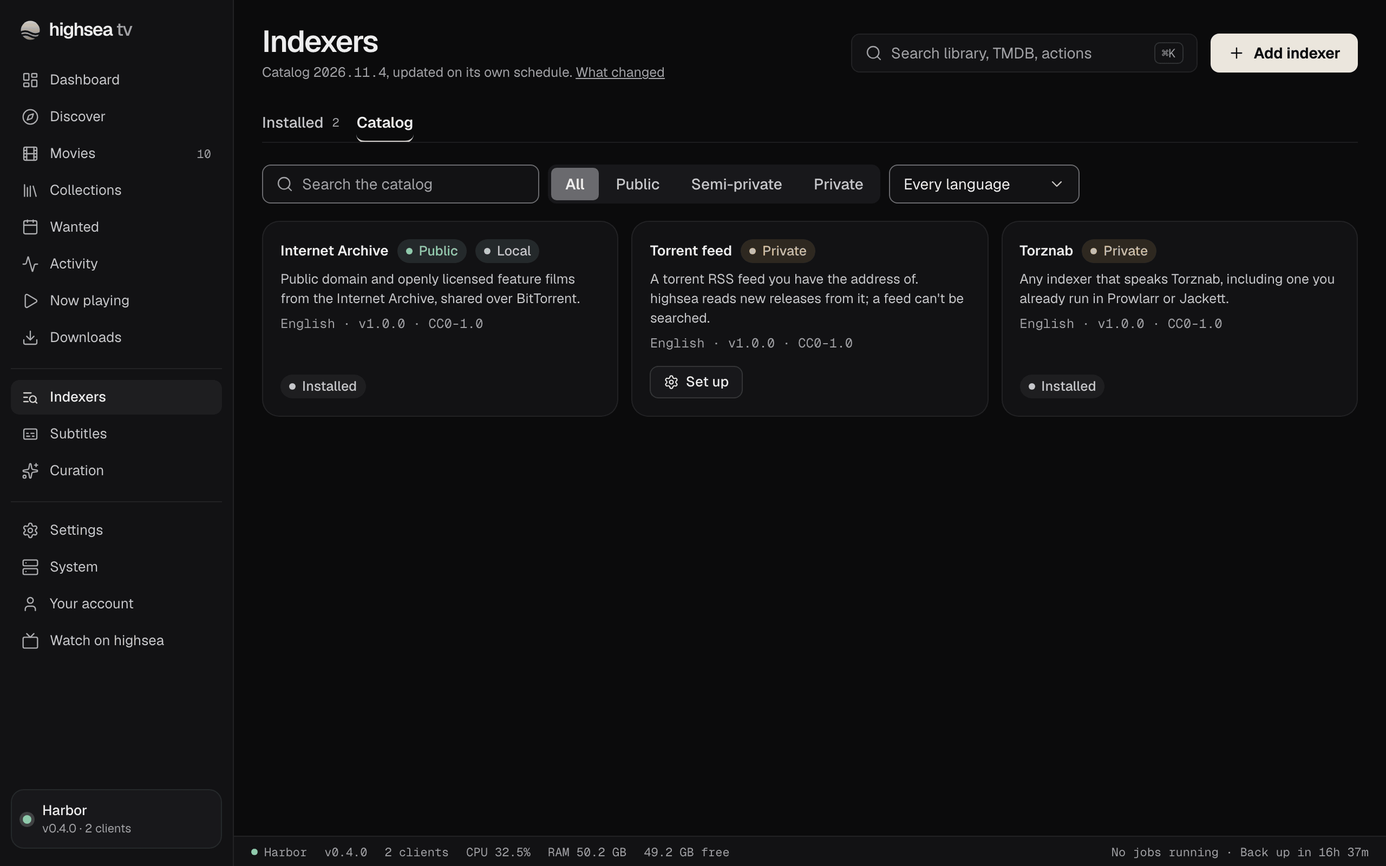
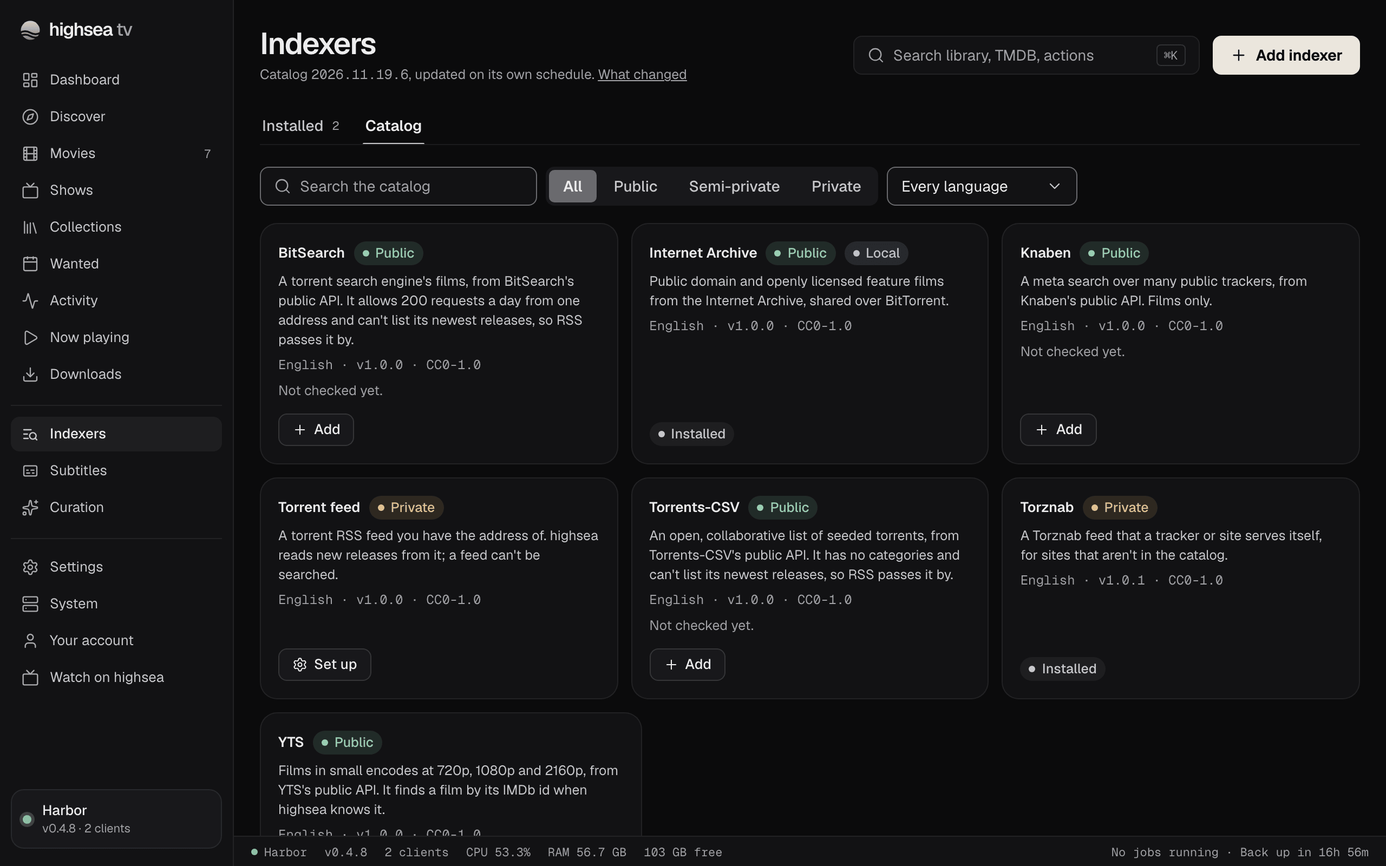
Record the approved upkeep lines, and explain them in the guide
- The upkeep plan records the owner's approval of A9's prototype and the five answers, with
  HT-99 in Progress; the indexers spec and docs/status.md say what's built
- ADR 0035 gains a dated section: a broken definition keeps its backoff and gains the
  catalog's note, a retired one keeps its row, and Report a problem
- The guide Indexers › Health and backoff says what Checked working on, Not checked yet, Beta,
  Broken and Retired mean, and when nothing is shown
- Screenshots retaken from the seeded server: the catalog, and a crop of its cards with the line

diff --git a/scripts/docs-shots/areas/indexers.ts b/scripts/docs-shots/areas/indexers.ts
@@ -36,6 +36,16 @@ export default {
     },
     { name: 'catalog', path: '/indexers/catalog' },
     {
+      // the upkeep lines (Indexers › Health and backoff): two cards from the catalog as shipped
+      name: 'catalog-checked',
+      path: '/indexers/catalog',
+      crop: (p) =>
+        p
+          .getByRole('listitem')
+          .filter({ has: p.getByRole('heading', { name: 'Knaben' }) })
+          .locator('..'),
+    },
+    {
       name: 'what-changed',
       path: '/indexers',
       act: (p) => p.getByRole('button', { name: 'What changed' }).click(),

diff --git a/docs/adr/README.md b/docs/adr/README.md
@@ -78,4 +78,4 @@ Template: copy [`template.md`](template.md).
 
 ## Which work added which ADRs
 
-0018–0022 came with checkpoint 1, 0023–0026 with checkpoint 2, 0027–0028 with checkpoint 3, 0029–0031 with checkpoint 4, 0032 with the admin-access work, 0033–0035 with checkpoint 5, 0036 (domain packages with subpath exports) at its review, 0037–0040 and 0042 with checkpoint 6a, 0041 (the migration importers) with 6b, which also added dated 6b sections to 0037, 0039 and 0042, 0043 (subtitles) with 7a, 0044 (the subtitle sync engine) with 7b, which also amended 0040, 0045 (automation) with 8a, 0046 (notifications) and 0047 (operations) with 8b, 0048 (curation) with 8c, 0049 (smart collections) with 8d, and 0050 (release and versioning) with 9b, which also added a dated section to 0034. Phase 4's 4.0a added a dated section to 0003 (Node 26 and Debian trixie), and 4.0b drafted 0051 (the playback engine), 0052 (device profiles) and 0053 (the clients' build and distribution) as Proposed. 4.1a added 0054 (watch state) and dated sections to 0003 (`/stream` served), 0039 (the scan adds what it can match surely) and 0049 (the watch rules on); 4.1b added dated sections to 0051 and 0052 and made them Accepted. 4.2a added 0055 (the clients' shared logic) and dated sections to 0003 (`/web` served), 0032 (users sent to `/web`) and 0053 (the web client as built); 4.2b added a second to 0053 (the web player). 4.3a added dated sections to 0046 (Playback started), 0051 (limits, the cache, burn-in, the downmix and Now playing) and 0052 (burned-in subtitles in the decision). 4.3b added 0056 (hardware acceleration) and dated sections to 0003 (the drivers and the render node's group), 0051 (the graphics chip) and 0052 (tone mapping in the decision). 4.3c adds 0057 (installing without configuration, with highsea's own TMDB key) and dated sections to 0003 (NVIDIA's variables and the user found from `/data`), 0020 (mDNS through the host's avahi, then the advertised address and the router's forwarding), 0050 (the TMDB key in the `release` environment, then the stores and `get.highsea.tv`) and 0056 (the handover on by default). Part D adds dated sections to 0057 (the Synology package) and 0050 (the package on each stable release). 4.4a adds 0058 (the desktop app, Accepted) and dated sections to 0009 (the audit reads crates), 0020 (discovery from the app), 0024 (single sign-on from the apps), 0050 (the desktop app on each stable release), 0052 (the webviews' profiles) and 0053 (desktop as built). 4.5a adds 0059 (the native apps, Proposed until 4.5c) and dated sections to 0009 (the audit reads pods), 0020 (discovery from the phone), 0024 (approving a TV from the phone, and single sign-on), 0050 (the phone's version), 0052 (the `ios` and `tvos` profiles), 0053 (the phone app as built) and 0055 (library, servers and cues). Design system 1.1 adds 0060 (one design system and one library, Proposed until the owner's review) and dated sections to 0008 (one library, two renderers) and 0059 (ui-native joined with ui-web). The apps' catch-up's part A adds dated sections to 0027 (the apps' playback settings), 0054 (Remove from Continue watching) and 0055 (what moved from the prototype). Part B adds dated sections to 0055 (a person's films and announcements' words), 0059 (the TV's screens on shared parts) and 0060 (the TV's own parts and Chip's end icon). Part C adds dated sections to 0055 (the phone on the shared rules) and 0060 (the phone's page parts). The one client platform's part A adds 0061 (one client platform on React Native, Proposed until the owner's review) and dated sections to 0003 (the client's Expo web export at `/web`), 0008 (React Native everywhere), 0053 (the web's build is Expo's, one project), 0055 (the prototypes' logic moved in, the mock as a transport), 0058 (the desktop app around the Expo export), 0059 (`apps/mobile` and `apps/tv` joining `apps/client`) and 0060 (one drawing per component). Part B's B1 adds dated sections to 0055 (the films' rules for every client), 0060 (the films' parts merged by form factor) and 0061 (the films' screens moved, with the prototypes handing them to the client). B2 adds dated sections to 0050 (the phone's and TV's version from `apps/client`), 0055 (downloads and the player's speeds), 0059 (`apps/mobile` and `apps/tv` removed), 0060 (what B2 added to the library) and 0061 (the rest of the films apps moved, and the two apps removed). B3 adds dated sections to 0055 (shows, music, the music player and profiles), 0060 (what B3 added to the library) and 0061 (the drafted routes, and hiding what a server doesn't serve; then the screens moved and the prototypes' client folders removed). Part C's C1 adds dated sections to 0003 (`/web` serves the client's export), 0053 (the web ships from it, and `bun run web`) and 0061 (what the move found: checked state on the web, the panel's blur, cues the browser draws). C2 adds dated sections to 0058 (the window shows the client's desktop export, and `server_info`), 0059 (highsea's shipping identifiers) and 0061 (the desktop app on the client, and `apps/web` removed). Part D's D1 adds dated sections to 0003 (Next.js hosting react-native-web on webpack, the sheet in the server's HTML), 0018 (the screens shared with their prototype), 0060 (the admin's parts in the native renderer, `svgName`) and 0061 (the admin on the library, shared with its prototype). D2 adds dated sections to 0003 (the image's size reported, not gated), 0018 (the library and the work shared), 0060 (what D2 added to the library, and what the sweeps changed) and 0061 (the library and the work moved). D3 adds dated sections to 0003 (the Next.js wiring in the library, the server without Tailwind, the build context), 0018 (every admin screen shared), 0060 (the web renderer removed, and what D3 added) and 0061 (every admin screen moved, Shows' drafted admin, and the tables at scale). The `next` branch (next-branch.md) adds 0062 (the `next` branch and CI by branch) and a dated section to 0050 (work lands on `next`). The one compose file's part A adds dated sections to 0057 (one compose file at the root, the variants written where they're needed) and 0020 (the Docker Desktop setup in the guide rather than a file). Part B adds a dated section to 0042 (highsea connects' compose lines from Settings, and the host-networking status). The one client platform's part E1 adds a dated section to 0060 (every value on the tokens, and one width rule). E3 adds dated sections to 0003 (the guides' build after E2: the faces and the code blocks' comment colour), 0008 (the guides' drawn parts in React Native), 0059 (expo-video's player view in the view controller hierarchy on tvOS, the owner's decision of 2026-11-15), 0060 (the guides' link card and figure in the library, and the design language brought to the tokens) and 0061 (part E, and the platform built); 0060 and 0061 stay Proposed until part E's sign-off, and 0053's phone and TV part and 0059 until 4.5c. HT-16 adds a dated section to 0002 (Bun 1.4.4 in CI and the image). HT-29 adds a dated section to 0062 (a pull request of internal docs alone skips `check`), HT-42 another (workers run scoped checks, CI is the full gate), and HT-40 another (the fast tier in parallel, and `next`'s results reused on the pull request into `main`), and HT-89 another (a push to `next` cancels `next`'s older runs, and apt bounded). HT-43 adds a dated section to 0050 (a pre-production release is one click from `next`). HT-50 adds a note to it (the first run's skipped builds, and one rule for whether a release may publish). HT-54 adds another (publishing waits for every build). Phase 5's A1 adds 0063 (libraries highsea only reads, with a dated section on highsea's own folder from the NAS test) and dated sections to 0039 (a film's NFO, its parts, and folders that aren't one film; then an NFO that disagrees with its folder waits), 0050 (a stable release at each part) and 0057 (the package's read-only media, and shows' and music's folders). HT-31 adds dated sections to 0057 (the shared folder picked from a list, asked again on an update, and nothing assumed inside it) and 0063 (the package's read-only mount removed). Phase 5's A2a (HT-45) adds 0066 (client error reports), ahead of 0064 and 0065, which the plan keeps for shows (B) and music (D). With it, on the owner's decision of 2026-11-17, a dated section to 0026 (two supported ways to reach highsea, and no VPN, tunnel or relay). HT-46 adds a dated section to 0051 (a quick start), and HT-48 extends it (keyframes from the file's index, and subtitles in a job of their own). HT-49 adds another to 0051 (subtitles in segments, in step with the picture, and the subtitles' job for WebM alone). HT-53 adds a dated section to 0026 (highsea notices a proxy and offers the setting, and keeps people on HTTPS behind one). Phase 5's A2b (HT-52) adds 0068 (profiles, chosen per device) and dated sections to 0023 (the profile on a session and device token), 0027 (Home per profile), 0049 (watch rules per profile), 0054 (watch state per profile) and 0061 (profiles served). HT-56 adds dated sections to 0051 (a copy's run starts at its own keyframe, without an open GOP's leading frames) and 0066 (the apps' reports always kept, the owner's decision of 2026-11-18). HT-59 adds another to 0051 (each piece keeps its keyframe's own time, and seeks in Chromium's software decoder). HT-64 adds another to 0051 (the init whole when it's sent, and every failed start reported). HT-66 adds a dated section to 0030 (artwork an admin chooses, kept beside the cache and applied when the art is mapped, and a title's logo). HT-60 adds a dated section to 0029 (an optional service, Open-Meteo's weather, asks nothing until it's set up, and only from the server). Phase 5's B starts with HT-67, which adds 0064 (shows on the server: the model, TMDB's TV metadata, the parser's numbering and `@highsea-tv/media/shows`) and a dated section to 0012 (shows, seasons and episodes join the tree). HT-75 adds a dated section to 0034 (a live check of each definition, with its date in `verified.json`). HT-76 adds a dated section to 0037 (web seeds, BEP 19, through the socket factory; announces logged; a stalled torrent shown after 30 minutes). HT-73 adds a dated section to 0064 (files matched to episodes, the existing-library import, the scan, and the Series routes' id), HT-83 another (the routes served, episodes played as films are, each profile's place, shows never renamed, and Shows as a library a user can be given). HT-94 adds 0069 (keeping the indexer catalog fresh: stages, the weekly check, catalog-only publishes, names-only watching) and dated sections to 0034 (publishing without a release, and each definition's standing in the bundle) and 0050 (a catalog-only publish beside the release). HT-90 adds dated sections to 0042 (the built-in VPN ready on every install, the default mode, and downloads waiting for the VPN), 0020 (discovery off host networking, with the installer seeing to avahi) and 0057 (the default install on its own network). Phase 5's D starts with HT-93, which adds 0065 (music on the server: its own tables, the files' tags read with ffprobe, MusicBrainz and the Cover Art Archive where an id is known, and `@highsea-tv/media/music`) and a dated section to 0012 (music keeps its own tables).
+0018–0022 came with checkpoint 1, 0023–0026 with checkpoint 2, 0027–0028 with checkpoint 3, 0029–0031 with checkpoint 4, 0032 with the admin-access work, 0033–0035 with checkpoint 5, 0036 (domain packages with subpath exports) at its review, 0037–0040 and 0042 with checkpoint 6a, 0041 (the migration importers) with 6b, which also added dated 6b sections to 0037, 0039 and 0042, 0043 (subtitles) with 7a, 0044 (the subtitle sync engine) with 7b, which also amended 0040, 0045 (automation) with 8a, 0046 (notifications) and 0047 (operations) with 8b, 0048 (curation) with 8c, 0049 (smart collections) with 8d, and 0050 (release and versioning) with 9b, which also added a dated section to 0034. Phase 4's 4.0a added a dated section to 0003 (Node 26 and Debian trixie), and 4.0b drafted 0051 (the playback engine), 0052 (device profiles) and 0053 (the clients' build and distribution) as Proposed. 4.1a added 0054 (watch state) and dated sections to 0003 (`/stream` served), 0039 (the scan adds what it can match surely) and 0049 (the watch rules on); 4.1b added dated sections to 0051 and 0052 and made them Accepted. 4.2a added 0055 (the clients' shared logic) and dated sections to 0003 (`/web` served), 0032 (users sent to `/web`) and 0053 (the web client as built); 4.2b added a second to 0053 (the web player). 4.3a added dated sections to 0046 (Playback started), 0051 (limits, the cache, burn-in, the downmix and Now playing) and 0052 (burned-in subtitles in the decision). 4.3b added 0056 (hardware acceleration) and dated sections to 0003 (the drivers and the render node's group), 0051 (the graphics chip) and 0052 (tone mapping in the decision). 4.3c adds 0057 (installing without configuration, with highsea's own TMDB key) and dated sections to 0003 (NVIDIA's variables and the user found from `/data`), 0020 (mDNS through the host's avahi, then the advertised address and the router's forwarding), 0050 (the TMDB key in the `release` environment, then the stores and `get.highsea.tv`) and 0056 (the handover on by default). Part D adds dated sections to 0057 (the Synology package) and 0050 (the package on each stable release). 4.4a adds 0058 (the desktop app, Accepted) and dated sections to 0009 (the audit reads crates), 0020 (discovery from the app), 0024 (single sign-on from the apps), 0050 (the desktop app on each stable release), 0052 (the webviews' profiles) and 0053 (desktop as built). 4.5a adds 0059 (the native apps, Proposed until 4.5c) and dated sections to 0009 (the audit reads pods), 0020 (discovery from the phone), 0024 (approving a TV from the phone, and single sign-on), 0050 (the phone's version), 0052 (the `ios` and `tvos` profiles), 0053 (the phone app as built) and 0055 (library, servers and cues). Design system 1.1 adds 0060 (one design system and one library, Proposed until the owner's review) and dated sections to 0008 (one library, two renderers) and 0059 (ui-native joined with ui-web). The apps' catch-up's part A adds dated sections to 0027 (the apps' playback settings), 0054 (Remove from Continue watching) and 0055 (what moved from the prototype). Part B adds dated sections to 0055 (a person's films and announcements' words), 0059 (the TV's screens on shared parts) and 0060 (the TV's own parts and Chip's end icon). Part C adds dated sections to 0055 (the phone on the shared rules) and 0060 (the phone's page parts). The one client platform's part A adds 0061 (one client platform on React Native, Proposed until the owner's review) and dated sections to 0003 (the client's Expo web export at `/web`), 0008 (React Native everywhere), 0053 (the web's build is Expo's, one project), 0055 (the prototypes' logic moved in, the mock as a transport), 0058 (the desktop app around the Expo export), 0059 (`apps/mobile` and `apps/tv` joining `apps/client`) and 0060 (one drawing per component). Part B's B1 adds dated sections to 0055 (the films' rules for every client), 0060 (the films' parts merged by form factor) and 0061 (the films' screens moved, with the prototypes handing them to the client). B2 adds dated sections to 0050 (the phone's and TV's version from `apps/client`), 0055 (downloads and the player's speeds), 0059 (`apps/mobile` and `apps/tv` removed), 0060 (what B2 added to the library) and 0061 (the rest of the films apps moved, and the two apps removed). B3 adds dated sections to 0055 (shows, music, the music player and profiles), 0060 (what B3 added to the library) and 0061 (the drafted routes, and hiding what a server doesn't serve; then the screens moved and the prototypes' client folders removed). Part C's C1 adds dated sections to 0003 (`/web` serves the client's export), 0053 (the web ships from it, and `bun run web`) and 0061 (what the move found: checked state on the web, the panel's blur, cues the browser draws). C2 adds dated sections to 0058 (the window shows the client's desktop export, and `server_info`), 0059 (highsea's shipping identifiers) and 0061 (the desktop app on the client, and `apps/web` removed). Part D's D1 adds dated sections to 0003 (Next.js hosting react-native-web on webpack, the sheet in the server's HTML), 0018 (the screens shared with their prototype), 0060 (the admin's parts in the native renderer, `svgName`) and 0061 (the admin on the library, shared with its prototype). D2 adds dated sections to 0003 (the image's size reported, not gated), 0018 (the library and the work shared), 0060 (what D2 added to the library, and what the sweeps changed) and 0061 (the library and the work moved). D3 adds dated sections to 0003 (the Next.js wiring in the library, the server without Tailwind, the build context), 0018 (every admin screen shared), 0060 (the web renderer removed, and what D3 added) and 0061 (every admin screen moved, Shows' drafted admin, and the tables at scale). The `next` branch (next-branch.md) adds 0062 (the `next` branch and CI by branch) and a dated section to 0050 (work lands on `next`). The one compose file's part A adds dated sections to 0057 (one compose file at the root, the variants written where they're needed) and 0020 (the Docker Desktop setup in the guide rather than a file). Part B adds a dated section to 0042 (highsea connects' compose lines from Settings, and the host-networking status). The one client platform's part E1 adds a dated section to 0060 (every value on the tokens, and one width rule). E3 adds dated sections to 0003 (the guides' build after E2: the faces and the code blocks' comment colour), 0008 (the guides' drawn parts in React Native), 0059 (expo-video's player view in the view controller hierarchy on tvOS, the owner's decision of 2026-11-15), 0060 (the guides' link card and figure in the library, and the design language brought to the tokens) and 0061 (part E, and the platform built); 0060 and 0061 stay Proposed until part E's sign-off, and 0053's phone and TV part and 0059 until 4.5c. HT-16 adds a dated section to 0002 (Bun 1.4.4 in CI and the image). HT-29 adds a dated section to 0062 (a pull request of internal docs alone skips `check`), HT-42 another (workers run scoped checks, CI is the full gate), and HT-40 another (the fast tier in parallel, and `next`'s results reused on the pull request into `main`), and HT-89 another (a push to `next` cancels `next`'s older runs, and apt bounded). HT-43 adds a dated section to 0050 (a pre-production release is one click from `next`). HT-50 adds a note to it (the first run's skipped builds, and one rule for whether a release may publish). HT-54 adds another (publishing waits for every build). Phase 5's A1 adds 0063 (libraries highsea only reads, with a dated section on highsea's own folder from the NAS test) and dated sections to 0039 (a film's NFO, its parts, and folders that aren't one film; then an NFO that disagrees with its folder waits), 0050 (a stable release at each part) and 0057 (the package's read-only media, and shows' and music's folders). HT-31 adds dated sections to 0057 (the shared folder picked from a list, asked again on an update, and nothing assumed inside it) and 0063 (the package's read-only mount removed). Phase 5's A2a (HT-45) adds 0066 (client error reports), ahead of 0064 and 0065, which the plan keeps for shows (B) and music (D). With it, on the owner's decision of 2026-11-17, a dated section to 0026 (two supported ways to reach highsea, and no VPN, tunnel or relay). HT-46 adds a dated section to 0051 (a quick start), and HT-48 extends it (keyframes from the file's index, and subtitles in a job of their own). HT-49 adds another to 0051 (subtitles in segments, in step with the picture, and the subtitles' job for WebM alone). HT-53 adds a dated section to 0026 (highsea notices a proxy and offers the setting, and keeps people on HTTPS behind one). Phase 5's A2b (HT-52) adds 0068 (profiles, chosen per device) and dated sections to 0023 (the profile on a session and device token), 0027 (Home per profile), 0049 (watch rules per profile), 0054 (watch state per profile) and 0061 (profiles served). HT-56 adds dated sections to 0051 (a copy's run starts at its own keyframe, without an open GOP's leading frames) and 0066 (the apps' reports always kept, the owner's decision of 2026-11-18). HT-59 adds another to 0051 (each piece keeps its keyframe's own time, and seeks in Chromium's software decoder). HT-64 adds another to 0051 (the init whole when it's sent, and every failed start reported). HT-66 adds a dated section to 0030 (artwork an admin chooses, kept beside the cache and applied when the art is mapped, and a title's logo). HT-60 adds a dated section to 0029 (an optional service, Open-Meteo's weather, asks nothing until it's set up, and only from the server). Phase 5's B starts with HT-67, which adds 0064 (shows on the server: the model, TMDB's TV metadata, the parser's numbering and `@highsea-tv/media/shows`) and a dated section to 0012 (shows, seasons and episodes join the tree). HT-75 adds a dated section to 0034 (a live check of each definition, with its date in `verified.json`). HT-76 adds a dated section to 0037 (web seeds, BEP 19, through the socket factory; announces logged; a stalled torrent shown after 30 minutes). HT-73 adds a dated section to 0064 (files matched to episodes, the existing-library import, the scan, and the Series routes' id), HT-83 another (the routes served, episodes played as films are, each profile's place, shows never renamed, and Shows as a library a user can be given). HT-94 adds 0069 (keeping the indexer catalog fresh: stages, the weekly check, catalog-only publishes, names-only watching) and dated sections to 0034 (publishing without a release, and each definition's standing in the bundle) and 0050 (a catalog-only publish beside the release). HT-90 adds dated sections to 0042 (the built-in VPN ready on every install, the default mode, and downloads waiting for the VPN), 0020 (discovery off host networking, with the installer seeing to avahi) and 0057 (the default install on its own network). HT-99 adds a dated section to 0035 (a broken definition keeps its backoff and gains the catalog's note; a retired one's row; Report a problem). Phase 5's D starts with HT-93, which adds 0065 (music on the server: its own tables, the files' tags read with ffprobe, MusicBrainz and the Cover Art Archive where an id is known, and `@highsea-tv/media/music`) and a dated section to 0012 (music keeps its own tables).

diff --git a/docs/plans/indexer-catalog-upkeep.md b/docs/plans/indexer-catalog-upkeep.md
@@ -65,6 +65,7 @@ Seven parts. A to E are upkeep and each is a task of its own; F is the growth th
 - **2026-11-19 (HT-94), C's data:** `stages.json` and the rules (a week and two passes before stable, two failures in a row broken, 30 days broken due for retirement, a retired note for 6 months, starters listed and never on Beta), carried per definition in the signed bundle's optional `status` and read by the catalog service (`statusOf`). Not yet built: the API contract's fields, A9's "Checked working on …", Broken and Retired (the prototype first) and Report a problem.
 - **2026-11-19 (HT-95), C's Report a problem, built:** in A9's More menu for an indexer from highsea's own catalog (not a Local one, one from an extra catalog or one gone from the catalog). It opens `indexer-broken.yml` in the browser with `title`, `indexer`, `indexer-version`, `catalog-version`, `highsea-version` and `channel`; never the owner's name for the indexer, its settings, an address, a search or the last error's text (which can hold an address), so `kind` and `details` are left for the owner. It's offered on every catalog indexer, not only one failing for a day: a wrong size or a failed grab never makes an indexer fail (a question for the owner). `packages/admin/src/report-problem.ts`; the public guide is Indexers › Health and backoff.
 - **2026-11-19 (HT-95), C's A9 change, prototyped for the owner's sign-off:** "Checked working on …" ("Last checked working on …" after 30 days, "Not checked yet" without a date), and Beta, Broken (with "Broken since {date}. {note}") and Retired ("Retired on {date}. {note}"), drawn in the catalog's cards, the Installed table (badges by the name, lines under the health) and the Set up and Edit dialogs; a retired definition leaves the catalog's list. Drawn over the mock only: `DefinitionCheck` is optional on `CatalogIndexer` and the server leaves it out. What the server will need when it's built: the bundle already carries each definition's status (HT-94, `definitionStatusSchema`), and `DefinitionCheck` maps onto it field for field (its `stage` is the check's `channel`), so `catalog.indexers` only has to pass `statusOf(id)` on.
+- **2026-11-19 (HT-99), C's A9 change, built:** the owner approved the prototype ("indexers look good") with every recommendation of its five questions ([below](#part-cs-prototype-the-owners-answers)). `DefinitionCheck` now carries the bundle's status field for field (`stage`, `status`, `since`, `note`, `checked`, `result`, `verified`) on `CatalogIndexer` and on `Indexer`; the indexers service fills it from each definition's catalog status, and an installed indexer whose definition is retired reads it by id through `statusOf`. Nothing for a Local or private definition or from a bundle built before stages. A9 reads an installed indexer's own `check`, so a retired one keeps its row with the Retired line in place of "Its definition is gone from the catalog". The guide is Indexers › Health and backoff.
 - **Left for later, as planned:** D (mirrors and domain moves), E's guide and pull request template, F2 (TV and anime with Phase 5's C1), apibay on Beta after F2, F3 (the engine's HTML gaps), F4 (the owner's own challenge solver) and G (native private trackers).
 
 ## Freshness: noticing a broken definition (B, C)
@@ -340,3 +341,15 @@ On 2026-11-19 the owner took every recommendation for questions 1 to 13 except 9
 11. **Changed by the owner:** private trackers are **native definitions as a planned later part (G)**, not through Prowlarr or Jackett: sign-in support in the engine, each written from the tracker's own API documentation and verified by a member with an account. The generic Torznab connector stays only for a feed a tracker serves itself.
 12. **CC0-1.0 by default, MIT allowed,** stated by a checkbox in the pull request.
 13. **"Checked working on …" and Broken or Retired in A9,** prototyped first (the owner's approval to prototype a change to the locked A9; the prototype still needs their sign-off).
+
+### Part C's prototype: the owner's answers
+
+On 2026-11-19 the owner approved part C's A9 prototype (HT-95, pull request #96) in their words "indexers look good", taking the recommendation for each of its five questions:
+
+1. **Report a problem stays in More for every catalog indexer,** not only one failing for a day: a wrong size or a release that can't be grabbed never makes an indexer fail.
+2. **The check line sits under the health badge** in Installed, not in the title's detail line.
+3. **Private definitions say nothing:** the weekly check skips them, so "Not checked yet." would never change.
+4. **Report a problem's form isn't filled with what went wrong** (`kind`, `details`): the error's text can hold an address.
+5. **An installed indexer whose definition is retired keeps its row** with the Retired badge and line, rather than being marked as needing attention like a definition gone from the catalog.
+
+Built in HT-99 ([Progress](#progress)).

diff --git a/docs/product/indexers.md b/docs/product/indexers.md
@@ -27,7 +27,7 @@ Where highsea looks for releases. The page shows whether each indexer is working
 - **Edit** dialog (`md`, from More): the same generated form, prefilled, plus the name and **Priority** (1 to 50, 25 by default, lower first). A secret field shows empty; leaving it empty keeps the saved one. New settings are tested before saving, as in setup. *As built (8c):* the dialog adds **Tags** after Priority: an indexer with tags is used only for movies sharing one, in a search and in RSS; with none, for every movie (Radarr's rule, [wiki.servarr.com/radarr/settings#tags](https://wiki.servarr.com/radarr/settings#tags)). Not in the prototype.
   - **Seeding** (checkpoint 6a, 2026-10-20): **Ratio**, **Time, in hours** and **Minimum, in hours** ("For trackers with hit-and-run rules."), under "Stops at the ratio or the time, whichever comes first, and never before the minimum. An empty ratio or time uses Settings › Download client's." An empty ratio or time reads **Default**, an empty minimum **None**. A torrent grabbed from the indexer keeps the rule it was grabbed with, shown on Downloads' Seeding tab.
 - **Report a problem** (More, 2026-11-19, HT-95; [the upkeep plan](../plans/indexer-catalog-upkeep.md)'s part C): for an indexer from highsea's own catalog, opens the repository's "An indexer isn't working" form in the browser, filled in through GitHub's URL query with the definition's id, name and version, the catalog's version and channel, and highsea's version (`report-problem.ts`). Nothing about the owner, their server, their searches or the indexer's settings; highsea sends nothing itself.
-- **The catalog's upkeep** (prototyped 2026-11-19, HT-95, waiting for the owner's sign-off; the mock only): "Checked working on 18 Nov 2026", "Last checked working on …" after 30 days, or "Not checked yet", with Beta, Broken and Retired badges and "Broken since {date}. {note}" / "Retired on {date}. {note}" in warning. On a catalog card: badges after the privacy badge, the lines under the language · version · licence line. In Installed: badges after the name, the lines under the health. In Set up and Edit: at the top, after "Definition v{version}.". A retired definition leaves the catalog's list. Private definitions say nothing (`catalog:verify` skips them).
+- **The catalog's upkeep** (prototyped 2026-11-19 in HT-95, approved by the owner the same day with every recommendation of its five questions, built in HT-99; [the upkeep plan](../plans/indexer-catalog-upkeep.md#part-cs-prototype-the-owners-answers)): "Checked working on Nov 18, 2026", "Last checked working on …" after 30 days, or "Not checked yet", with Beta, Broken and Retired badges and "Broken since {date}. {note}" / "Retired on {date}. {note}" in warning. On a catalog card: badges after the privacy badge, the lines under the language · version · licence line. In Installed: badges after the name, the lines under the health. In Set up and Edit: at the top, after "Definition v{version}.". From the server's `check` (`DefinitionCheck`, the signed bundle's status per definition) on the catalog's definitions and on installed indexers. A retired definition leaves the catalog's list; an installed one keeps its row with the Retired badge and line, in place of "Its definition is gone from the catalog". Report a problem stays in More for every catalog indexer, and its form isn't filled with what went wrong. Local and private definitions, and a catalog built before stages, say nothing.
 - **What changed** dialog: the catalog's recent versions with their notes. When updates ask first (Settings › General › Catalog), a waiting version is shown at the top with **Install**.
 
 ## States

diff --git a/docs/status.md b/docs/status.md
@@ -42,6 +42,7 @@ Where each phase, checkpoint and plan is, newest work at the end of each list. C
 - **0.4.5 published and installed on the NAS** (2026-11-19, run 44444822503, tag `v0.4.5`): the artwork migration applied and the heroes work on the real library; the logo refetch needed a manual run (its daily schedule is kept in the database). Findings in [Phase 5's Progress](plans/phase-5-real-use.md#progress).
 - **Issue forms for the indexer catalog** (2026-11-19, HT-84, waiting for the owner's review): forms for a broken indexer, a suggestion and a moved or closed site, plus a bug report and feature idea, in `.github/ISSUE_TEMPLATE/`; part E of [the upkeep plan](plans/indexer-catalog-upkeep.md#progress). The broken-indexer form's field ids are listed in the catalog's README for the Report link.
 - **Indexers in the admin: Report a problem, and "Checked working on…" prototyped** (2026-11-19, HT-95, waiting for the owner's review): built for real, **Report a problem** in a catalog indexer's More menu in A9 opens the "An indexer isn't working" form prefilled with the definition's id, name and version, the catalog's version and channel and highsea's version, nothing about the owner or the server (the [upkeep plan](plans/indexer-catalog-upkeep.md#progress)'s part C). Prototyped over the mock only, for the owner's approval: when each definition was last checked working, and Beta, Broken since or Retired on, in A9's Installed table, catalog cards and dialogs (`DefinitionCheck`, drafted in the contract and not served). Screenshots in `.pr/indexers-upkeep/`.
+- **Indexers in the admin: "Checked working on…", Beta, Broken and Retired, built** (2026-11-19, HT-99, waiting for the owner's review): the owner approved HT-95's prototype ("indexers look good") with every recommendation of its five questions, recorded in [the upkeep plan](plans/indexer-catalog-upkeep.md#part-cs-prototype-the-owners-answers). The server passes each definition's stage, status, note and last check from the signed catalog to A9, on catalog definitions and installed indexers, a retired one's included; nothing for Local or private definitions or an older catalog. The guide Indexers › Health and backoff says what the lines mean.
 - **Four public film indexers** (2026-11-19, HT-77, waiting for the owner's review): YTS, Knaben, BitSearch and Torrents-CSV in the catalog (2026.11.19.2), written from their own API documentation under CC0-1.0, with engine 1.1.0's additions; [phase 5's progress](plans/phase-5-real-use.md#progress) has the detail.
 - **A folder picker on every folder field** (2026-11-19, HT-91, waiting for the owner's review): the owner's finding on 0.4.7 that folder paths had to be typed. Setup's picker is shared, **Browse** sits beside every admin field that takes a folder on the server, and a staff route lists folders only, inside the data folder and the folders highsea knows, never `/config` ([phase 5's progress](plans/phase-5-real-use.md#progress), [settings.md](product/settings.md)).
 - **The first real download** (2026-11-19, HT-76): the Internet Archive torrent that sat at 0% on the NAS. Web seeds (BEP 19), announces logged, a Stalled status after 30 minutes with no peers or data, web seeds in the Trackers tab, peers in the dashboard's Queue widget, and the Add dialog's note on folders highsea only reads; ADR 0037's section of 2026-11-19. Waiting for the owner's review.

diff --git a/docs/adr/0035-indexer-health-and-search.md b/docs/adr/0035-indexer-health-and-search.md
@@ -38,3 +38,11 @@ Indexers fail in ordinary ways: they're slow, they rate-limit, their keys expire
 - Searches finish in at most about 30 seconds, whatever one indexer does.
 - Secrets can't leak through errors, logs or the API. A test checks each of those paths.
 - Backoff and failing follow Prowlarr's documented behaviour in spirit, but the schedule is highsea's own and is fixed in tests.
+
+## 2026-11-19: the catalog's word beside a server's health (HT-99)
+
+Part C of [the indexer catalog's upkeep](../plans/indexer-catalog-upkeep.md) ([ADR 0069](0069-keeping-the-indexer-catalog-fresh.md)):
+
+- **A definition the catalog marks broken keeps its backoff.** highsea searches it as before, under this schedule, so a site that recovers on its own is used again at once; the catalog's note ("Broken since {date}. {note}") is drawn under the indexer's own health in A9, so an owner can tell a known breakage from their own setup. Each server's health stays its own and is never sent anywhere.
+- **A retired definition** leaves the catalog, so its indexers are skipped as a gone definition's are; A9 keeps their rows with the catalog's Retired note in place of "definition gone".
+- **Report a problem** in A9's More menu opens a prefilled issue form the owner chooses to send, for every indexer from highsea's own catalog; it carries nothing from health (an error's text can hold an address).
